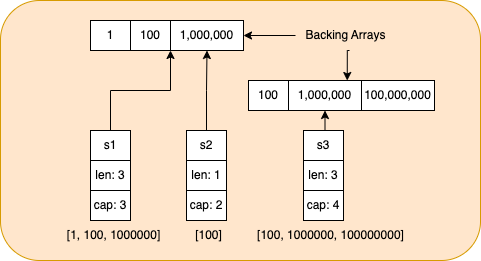
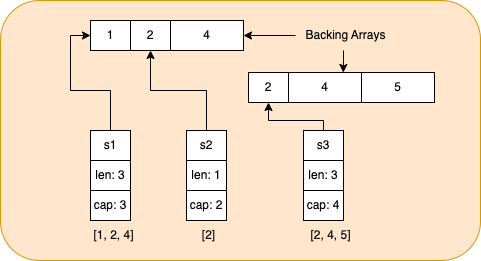
Update talk

diff --git a/slices/examples/slice-append/main.go b/slices/examples/slice-append/main.go
@@ -1,25 +1,22 @@
 package main
 
-import "fmt"
-
 func main() {
-	var names = []string{"s1", "s2", "s3"}
-	var slices = make([]*[]int, 0, 3)
-	s1 := []int{1, 100, 10_000}
-	slices = append(slices, &s1)
-	log(names, slices)
+	s1 := []int{1, 2, 3}
+	// s1: [1, 2, 3]
+	// len: 3 | cap: 3
+
 	s2 := s1[1:2]
-	slices = append(slices, &s2)
-	log(names, slices)
-	s3 := append(s2, 1_000_000)
-	slices = append(slices, &s3)
-	log(names, slices)
-	s3 = append(s3, 100_000_000)
-	log(names, slices)
-}
-func log(names []string, slices []*[]int) {
-	for i, s := range slices {
-		fmt.Printf("slice: %s\nvalue:%v\nlen: %d, cap: %d\n", names[i], *s, len(*s), cap(*s))
-	}
-	fmt.Println("---------")
+	// s2: [2]
+	// len: 1 | cap: 2
+
+	s3 := append(s2, 4)
+	// s3: [2, 4]
+	// len: 2 | cap: 2
+	// what's s1?
+	// s1: [1, 2, 4]
+	// len: 3 | cap: 3
+
+	s3 = append(s3, 5)
+	// s3: [2, 4, 5]
+	// len: 3 | cap: 4
 }

diff --git a/slices/examples/slice-init/main.go b/slices/examples/slice-init/main.go
@@ -4,18 +4,19 @@ import "fmt"
 
 func main() {
 	var s []string
-	log(1, s)
+	// empty: true | nil: true  | len: 0 | cap: 0
 
 	s = []string(nil)
-	log(2, s)
+	// empty: true | nil: true  | len: 0 | cap: 0
 
 	s = []string{}
-	log(3, s)
+	// empty: true | nil: false | len: 0 | cap: 0
 
 	s = make([]string, 0)
-	log(4, s)
-}
+	// empty: true | nil: false | len: 0 | cap: 0
 
-func log(i int, s []string) {
-	fmt.Printf("%d: empty=%t\nnil=%t\n", i, len(s) == 0, s == nil)
+	s = make([]string, 1, 10)
+	// len: 1 | cap: 10
+
+	fmt.Println(s) // ignore this line, it's here just to keep the compiler happy
 }

diff --git a/slices/examples/memory-leak/capacity-leak/main_test.go b/slices/examples/memory-leak/capacity-leak/main_test.go
@@ -1,0 +1,12 @@
+package main
+
+import (
+	"testing"
+)
+
+func Benchmark_getFirstFiveBytes(b *testing.B) {
+	trg := make([]byte, 1_000_000)
+	for i := 0; i < b.N; i++ {
+		getFirstFiveBytes(trg)
+	}
+}

diff --git a/slices/examples/memory-leak/full-slice-expression/main_test.go b/slices/examples/memory-leak/full-slice-expression/main_test.go
@@ -1,0 +1,10 @@
+package main
+
+import "testing"
+
+func Benchmark_getFirstFiveBytes(b *testing.B) {
+	trg := make([]byte, 1_000_000)
+	for i := 0; i < b.N; i++ {
+		getFirstFiveBytes(trg)
+	}
+}

diff --git a/slices/examples/memory-leak/leak-fix/main_test.go b/slices/examples/memory-leak/leak-fix/main_test.go
@@ -1,0 +1,10 @@
+package main
+
+import "testing"
+
+func Benchmark_getFirstFiveBytes(b *testing.B) {
+	trg := make([]byte, 1_000_000)
+	for i := 0; i < b.N; i++ {
+		getFirstFiveBytes(trg)
+	}
+}
